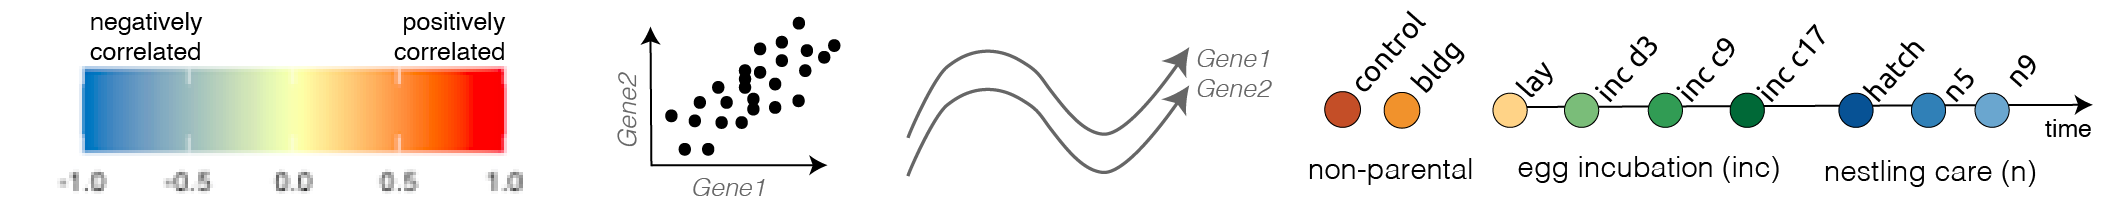
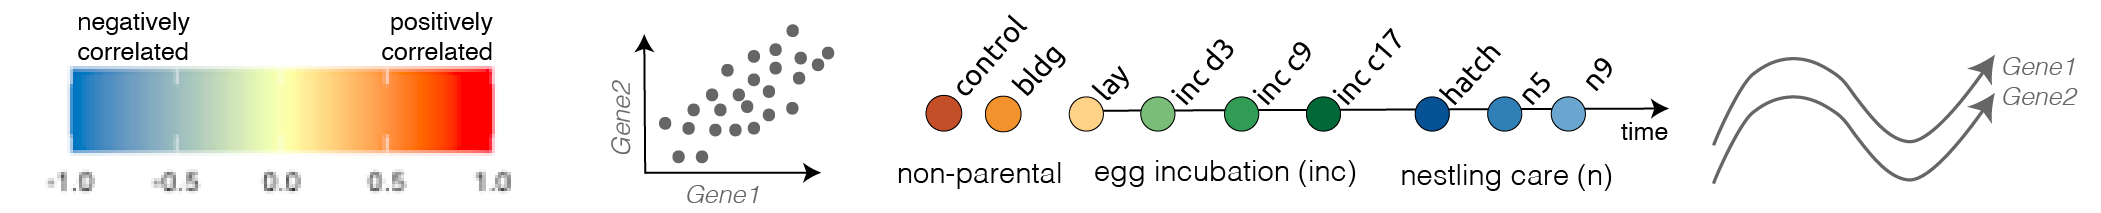
new fig 2

diff --git a/analysis/figure-2.md b/analysis/figure-2.md
@@ -1279,7 +1279,7 @@ Candidate Correlations
         ggplot(aes(x = treatment, y = counts)) +
         geom_boxplot(aes(fill = treatment, color = sex), outlier.shape = NA) +
         geom_jitter(size = 0.25, aes(color = sex)) +
-        facet_wrap(~sex, scales = "free_y", nrow = 1) +
+        facet_wrap(~sex,  nrow = 1) +
         scale_fill_manual(values = allcolors) +
         scale_color_manual(values = allcolors) +
         theme_B3() + 
@@ -1317,38 +1317,38 @@ Candidate Correlations
       return(p)
     }
 
-    header <- png::readPNG("../figures/images/fig_fig2a.png")
-    header <- ggdraw() +  draw_image(header, scale = 1)
+    a <- png::readPNG("../figures/images/fig_fig2a.png")
+    a <- ggdraw() +  draw_image(a, scale = 1)
 
 
-    b <- plotcorrplot(hyp3, "females and males") + theme(legend.position = "none")  + labs(title = "Hypothalamus")
-    g <- plotcorrplot(pit3, NULL) + theme(legend.position = "none") + labs(title = "Pituitary")
-    l <- plotcorrplot(gon3, NULL) + theme(legend.position = "none")  + labs(title = "Gonad")
+    b1 <- plotcorrplot(hyp3, "females and males") + theme(legend.position = "none")  + labs(y = "Hypothalamus", title = "Candidate gene correlations")
+    b2 <- plotcorrplot(pit3, NULL) + theme(legend.position = "none") + labs(y = "Pituitary")
+    b3 <- plotcorrplot(gon3, NULL) + theme(legend.position = "none")  + labs(y = "Gonad")
 
-    c <- scattercorrelations(FH, FH$DRD1, FH$HTR2C, "#969696", "DRD1", "HTR2C") + labs(subtitle = "female") + labs(title = "")
-    h <- scattercorrelations(FP, FP$AVPR1A, FP$CRHR1, "#969696", "AVPR1A", "CRHR1")  + labs(subtitle = NULL)+ labs(title = "")
-    m <- scattercorrelations(FG, FG$ESR1, FG$PGR, "#969696", "ESR1", "PGR")   + labs(subtitle = NULL)+ labs(title = "")
+    c1 <- scattercorrelations(FH, FH$DRD1, FH$HTR2C, "#969696", "DRD1", "HTR2C") + labs(subtitle = "female", title =  "Top correlation")  
+    c3 <- scattercorrelations(FP, FP$AVPR1A, FP$CRHR1, "#969696", "AVPR1A", "CRHR1")  + labs(subtitle = NULL) 
+    c5 <- scattercorrelations(FG, FG$ESR1, FG$PGR, "#969696", "ESR1", "PGR")   + labs(subtitle = NULL) 
 
-    d <- scattercorrelations(MH, MH$DRD1, MH$HTR2C, "#525252", "DRD1", "HTR2C")  + labs(subtitle = "male") + labs(title = "")
-    i <- scattercorrelations(MP, MP$AVPR1A, MP$CRHR1, "#525252", "AVPR1A", "CRHR1")  + labs(subtitle = NULL) + labs(title = "")
-    n <- scattercorrelations(MG, MG$ESR1, MG$PGR, "#525252", "ESR1", "PGR")  + labs(subtitle = NULL) + labs(title = "")
-
-
-    d1 <- candidateboxplot("hypothalamus", c("DRD1"), sexlevels) + labs(x = NULL , title = " ")  + theme(axis.line.x = element_blank()) 
-    d2 <- candidateboxplot("hypothalamus", c("HTR2C"), sexlevels) + labs(x = "Parental stage" ) + theme(strip.text = element_blank())
-
-    g1 <- candidateboxplot("pituitary", c("AVPR1A"), sexlevels) + labs(x = NULL, title = " " )  + theme( strip.text = element_blank(), axis.line.x = element_blank())
-    g2 <- candidateboxplot("pituitary", c("CRHR1"), sexlevels) + labs(x = "Parental stage"  )  + theme(strip.text = element_blank())
-
-    j1 <- candidateboxplot("gonad", c("ESR1"), sexlevels) + labs(x = NULL , title = " ") + theme(strip.text = element_blank(), axis.line.x = element_blank())
-    j2 <- candidateboxplot("gonad", c("PGR"), sexlevels) + labs(x = "Parental stage"  ) + theme(strip.text = element_blank())
+    c2 <- scattercorrelations(MH, MH$DRD1, MH$HTR2C, "#525252", "DRD1", "HTR2C")  + labs(subtitle = "male", title = "", y = NULL)  
+    c4 <- scattercorrelations(MP, MP$AVPR1A, MP$CRHR1, "#525252", "AVPR1A", "CRHR1")  + labs(subtitle = NULL, y = NULL)  
+    c6 <- scattercorrelations(MG, MG$ESR1, MG$PGR, "#525252", "ESR1", "PGR")  + labs(subtitle = NULL, y = NULL)  
 
 
-    btn <- plot_grid(b,c,d, g,h,i,l,m,n, ncol = 3, labels = c("B", "C", " ","E", "F", " ", "H", "I"), label_size = 8, rel_widths = c(1.4,1,1), rel_heights = c(1.1,1,1))
-    dgj <- plot_grid(d1,d2,g1,g2,j1,j2, ncol = 1, labels = c("D", " ", "G", " " , "J"), label_size = 8, rel_heights = c(1.3,1,1.2,1,1.2,1))
-    btoj <- plot_grid(btn,dgj, ncol = 2 , rel_widths = c(1.75,1))
+    d1 <- candidateboxplot("hypothalamus", c("DRD1"), sexlevels) + labs(x = NULL, title = "Temporal expression pattern" )  
+    d2 <- candidateboxplot("hypothalamus", c("HTR2C"), sexlevels) + labs(x = NULL ) + theme(strip.text = element_blank())
+    d3 <- candidateboxplot("pituitary", c("AVPR1A"), sexlevels) + labs(x = NULL )  + theme( strip.text = element_blank())
+    d4 <- candidateboxplot("pituitary", c("CRHR1"), sexlevels) + labs(x = NULL  )  + theme(strip.text = element_blank())
+    d5 <- candidateboxplot("gonad", c("ESR1"), sexlevels) + labs(x = NULL) + theme(strip.text = element_blank())
+    d6 <- candidateboxplot("gonad", c("PGR"), sexlevels) + labs(x = NULL ) + theme(strip.text = element_blank())
 
-    plot_grid(header, btoj,  rel_heights = c(0.2,1), ncol = 1)
+    b <- plot_grid(b1,b2,b3, ncol = 1, rel_heights = c(1.1,1,1))
+    c <- plot_grid(c1,c2,c3,c4,c5,c6, ncol = 2, rel_heights = c(1.1,1,1), rel_widths = c(1.1,1))
+    d <- plot_grid(d1,d2,d3,d4,d5,d6, ncol = 1, rel_heights = c(1.1,1.1, 1,1, 1,1))
+
+    bcd <- plot_grid(b,c,d, ncol = 3, rel_widths = c(1,1,1), labels = c("B", "C", "D"), label_size = 8)
+
+    fig2 <- plot_grid(a,bcd, ncol = 1, labels = c("A"), label_size = 8, rel_heights = c(0.1,1))
+    fig2
 
 ![](../figures/fig2-1.png)
 
